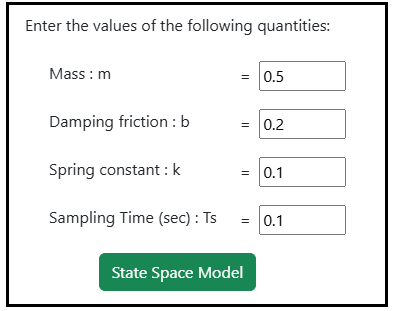
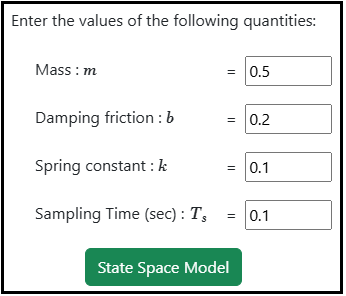
update 5

diff --git a/experiment/simulation/index.html b/experiment/simulation/index.html
@@ -129,6 +129,7 @@
         
     </div><!--First Container under body tag end-->
     
+   
 	
     <div class="container p-3 my-5 text-left border"><!--3rd Container under body tag start-->
       <div class="row"><!--First row under 3rd container start-->
@@ -153,7 +154,7 @@
 					 
 					 <li> Click on the 'Run' button to run the selected design. </li><br/>
 					 
-					 <li> Click on ' Enter the pole Location' button to enter the desired pole values (in s domain) for state feedback method. </li><br/>
+					 <li> Click on ' Enter the Pole Location' button to enter the desired pole values (in s domain) for state feedback method. </li><br/>
 					 
 					 <li> Click on ' Desing' button to get the gain values for the state feedback method. </li><br/>
 
@@ -187,11 +188,11 @@
 			Enter the values of the following quantities: <br/><br/>
 			<!--<img class = "img-fluid" src="./images/Continuous_System.png" class="img-fluid" > <br/></br>-->
 			
-			<span style="position:absolute;left:40%">Mass :  m</span> <span style="position:absolute;left:47%;width:24%;text-align:center">= &nbsp;<input type="number" id="m1" min="0.1" value="0.5" max="1" step="0.05"  ></span><br/></br>
-			<span style="position:absolute;left:40%">Damping friction : b</span>   <span style="position:absolute;left:47%;width:24%;text-align:center">= &nbsp;<input type="number" id="B1" min="0.1" value="0.2" max="1" step="0.05" ></span><br/></br>
-			<span style="position:absolute;left:40%">Spring constant :  k</span>  <span style="position:absolute;left:47%;width:24%;text-align:center">= &nbsp;<input type="number" id="K1" min="0.01" value="0.1" max="1" step="0.01"  ></span><br/></br>
+			<span style="position:absolute;left:40%">Mass : <span style="font-family:Bodoni MT;font-style:italic;font-size:18px"> m</span></span> <span style="position:absolute;left:47%;width:24%;text-align:center">= &nbsp;<input type="number" id="m1" min="0.1" value="0.5" max="1" step="0.05"  ></span><br/></br>
+			<span style="position:absolute;left:40%">Damping friction : <span style="font-family:Bodoni MT;font-style:italic;font-size:18px">b</span></span>   <span style="position:absolute;left:47%;width:24%;text-align:center">= &nbsp;<input type="number" id="B1" min="0.1" value="0.2" max="1" step="0.05" ></span><br/></br>
+			<span style="position:absolute;left:40%">Spring constant :  <span style="font-family:Bodoni MT;font-style:italic;font-size:18px">k</span></span>  <span style="position:absolute;left:47%;width:24%;text-align:center">= &nbsp;<input type="number" id="K1" min="0.01" value="0.1" max="1" step="0.01"  ></span><br/></br>
 			
-			<span style="position:absolute;left:40%">Sampling Time (sec) :  Ts</span>  <span style="position:absolute;left:47%;width:24%;text-align:center">= &nbsp;<input type="number" id="Ts1" min="0.01" value="0.1" max="1" step="0.01"  ></span><br/></br>
+			<span style="position:absolute;left:40%">Sampling Time (sec) :  <span style="font-family:Bodoni MT;font-style:italic;font-size:18px">T<sub>s</sub></span></span>  <span style="position:absolute;left:47%;width:24%;text-align:center">= &nbsp;<input type="number" id="Ts1" min="0.01" value="0.1" max="1" step="0.01"  ></span><br/></br>
            
 		 <!--  Length to pendulum center of mass : l (m) = &nbsp;<input type="number" id="l1" min="0.1" value="0.3" max="1" step="0.05" style="width:25%" ><br/></br>	
             Mass moment of inertia of the pendulum : I (kg.m^2) = &nbsp;<input type="number" id="I1" min="0.001" value="0.006" max="1" step="0.001" style="width:25%" ><br/></br>  -->
@@ -327,15 +328,15 @@
 			
 			$$ Q_c = [g_a, \ F_ag_a] $$
 			
-			<span class="card-text" id="matQcg" ></span><br/<br/>
-			<span class="card-text" id="matQcFg" ></span><br/<br/>
-			<span class="card-text" id="matQcFFg" ></span><br/<br/>
+			<span class="card-text" id="matQcg" ></span><br/><br/>
+			<span class="card-text" id="matQcFg" ></span><br/><br/>
+			<span class="card-text" id="matQcFFg" ></span><br/><br/>
 			
-			<span class="card-text" id="matQc" ></span><br/<br/>
+			<span class="card-text" id="matQc" ></span><br/><br/>
 			 
-			<button class="btn btn-success" onclick="showRank()">Rank of Qc</button>
+			<button class="btn btn-success" onclick="showRank()">Rank of <span style="font-family:Bodoni MT;font-style:italic;font-size:18px">Q<sub>c</sub></span></button>
 				<span id="Cntrl_Test1" style="display:none"></span><br/><br/>
-			<button class="btn btn-success" onclick="showDetQc()">Determinant of Qc</button>
+			<button class="btn btn-success" onclick="showDetQc()">Determinant of <span style="font-family:Bodoni MT;font-style:italic;font-size:18px">Q<sub>c</sub></span></button>
 			    <span id="Cntrl_Test2" style="display:none"></span><br/><br/>
 			<button class="btn btn-success" onclick="showinfo()">Inference</button>
 				<span id="Cntrl_Test3" style="display:none"></span><br/><br/>
@@ -404,7 +405,7 @@
 			<br/>	
 			
 			
-			<button class="btn btn-success" id ="runnew" onclick="EP()" style="visibility:hidden">Enter the desired pole location </button>				
+			<button class="btn btn-success" id ="runnew" onclick="EP()" style="visibility:hidden">Enter the Pole Location </button>				
 			
 			<div id="tfbodyadd2" class="card border-0" style="display:none; width:100%;background-color:none">
 			<br/><br/>

diff --git a/experiment/simulation/js/DS.js b/experiment/simulation/js/DS.js
@@ -77,10 +77,10 @@ function system(){
 			
 			
 			
-			document.getElementById('matA').innerHTML = ' A =['+ a11+',\t'+a12+';\t\t'+a21+','+a22+']';
-			document.getElementById('matB').innerHTML = ' B =['+ b1+';\t\t'+b2+']';
-			document.getElementById('matC').innerHTML = ' C =['+ c11+',\t'+c12+']';
-			document.getElementById('matD').innerHTML = ' D =['+ d11+']';
+			document.getElementById('matA').innerHTML = '<span style="font-family:Bodoni MT;font-style:italic;font-size:18px">A</span> =['+ a11+',\t'+a12+';\t\t'+a21+','+a22+']';
+			document.getElementById('matB').innerHTML = '<span style="font-family:Bodoni MT;font-style:italic;font-size:18px">B</span> =['+ b1+';\t\t'+b2+']';
+			document.getElementById('matC').innerHTML = '<span style="font-family:Bodoni MT;font-style:italic;font-size:18px">C</span> =['+ c11+',\t'+c12+']';
+			document.getElementById('matD').innerHTML = '<span style="font-family:Bodoni MT;font-style:italic;font-size:18px">D</span> =['+ d11+']';
 			
 			//outputText1=" G(s)= ["+b0+"s\u00B2+("+b1+")s+("+b2+ ")] / [" +a0+"s<sup>2</sup>+("+a1+")s+("+a2+ ")]";
 			
@@ -301,8 +301,8 @@ function DSSMS(){
 			var mg = math.matrix([[bd1], [bd2]]);
 			
 			
-			document.getElementById('matAd').innerHTML = ' F =['+ ad11+',\t'+ad12+';\t\t'+ad21+','+ad22+']';
-			document.getElementById('matBd').innerHTML = ' g =['+ bd1+';\t\t'+bd2+']';
+			document.getElementById('matAd').innerHTML = '<span style="font-family:Bodoni MT;font-style:italic;font-size:18px"> F</span> =['+ ad11+',\t'+ad12+';\t\t'+ad21+','+ad22+']';
+			document.getElementById('matBd').innerHTML = '<span style="font-family:Calibri;font-style:italic;font-size:18px"> g</span> =['+ bd1+';\t\t'+bd2+']';
 			
 			
 			
@@ -524,8 +524,8 @@ function DBR(){
 			var Faga= math.matrix([abd1,abd2]);
 			//var FaFaga= math.matrix([aabd1, aabd2, aabd3]);
 						
-			document.getElementById('matQcg').innerHTML = 'ga ='+ ga;
-			document.getElementById('matQcFg').innerHTML = ' Faga ='+ Faga;
+			document.getElementById('matQcg').innerHTML = '<span style="font-family:Calibri;font-style:italic;font-size:18px">g<sub>a</sub></span> ='+ ga;
+			document.getElementById('matQcFg').innerHTML = ' <span style="font-family:Bodoni MT;font-style:italic;font-size:18px">F<sub>a</sub></span> <span style="font-family:Calibri;font-style:italic;font-size:18px">g<sub>a</sub></span> ='+ Faga;
 			//document.getElementById('matQcFFg').innerHTML = ' Fa<sup>2</sup>ga ='+ FaFaga;
 			
 			
@@ -535,7 +535,7 @@ function DBR(){
 			
 			var Qc= math.matrix([[bd1, abd1],[bd2, abd2]]);
 			
-			document.getElementById('matQc').innerHTML = ' Q<sub>c</sub> =['+ bd1+',\t'+abd1+';\t\t'+bd2+','+abd2+']'
+			document.getElementById('matQc').innerHTML = ' <span style="font-family:Bodoni MT;font-style:italic;font-size:18px">Q<sub>c</sub></span> =['+ bd1+',\t'+abd1+';\t\t'+bd2+','+abd2+']'
 			
 			var DQc= math.divide(math.round(math.multiply(math.det(Qc),1000)),1000);
 			console.log(DQc);
@@ -543,8 +543,8 @@ function DBR(){
 			//DQc=0;
 			
 			if (DQc!=0)
-			{  Cntrl_Test1=" Rank of Q<sub>c</sub> = Order of A = n = 2";			   
-			   Cntrl_Test2="Determinent of Q<sub>c</sub> = " +DQc+ "";				    
+			{  Cntrl_Test1=" Rank is 2";			   
+			   Cntrl_Test2="Determinent is " +DQc+ "";				    
 			   Cntrl_Test3=" System is completely controllable";
 			   document.getElementById("Cntrl_Test1").innerHTML=Cntrl_Test1;
 			   document.getElementById("Cntrl_Test2").innerHTML=Cntrl_Test2;
@@ -654,8 +654,8 @@ function DBR(){
 			   
 			}
 			   else 
-			   {   Cntrl_Test1=" Rank of Q<sub>c</sub> < Order of A = n = 2";
-		           Cntrl_Test2="Determinent of Q<sub>c</sub> = " +DQc+ "";		
+			   {   Cntrl_Test1=" Rank <  n = 2";
+		           Cntrl_Test2="Determinent is " +DQc+ "";		
 			       Cntrl_Test3=" System is not controllable";
 			       document.getElementById("Cntrl_Test1").innerHTML=Cntrl_Test1;
 				   document.getElementById("Cntrl_Test2").innerHTML=Cntrl_Test2;

diff --git a/experiment/procedure.md b/experiment/procedure.md
@@ -65,7 +65,7 @@
 <b>Fig. 7. Run button to calculate the selected design </b>						  
 </div>
 
-8. Click on ' Enter the pole Location' button to enter the desired pole values for state feedback method. 
+8. Click on ' Enter the Pole Location' button to enter the desired pole values for state feedback method. 
 
 <div align="center">
 <img class="img-fluid"  src="./images/4_2.png" alt="">
